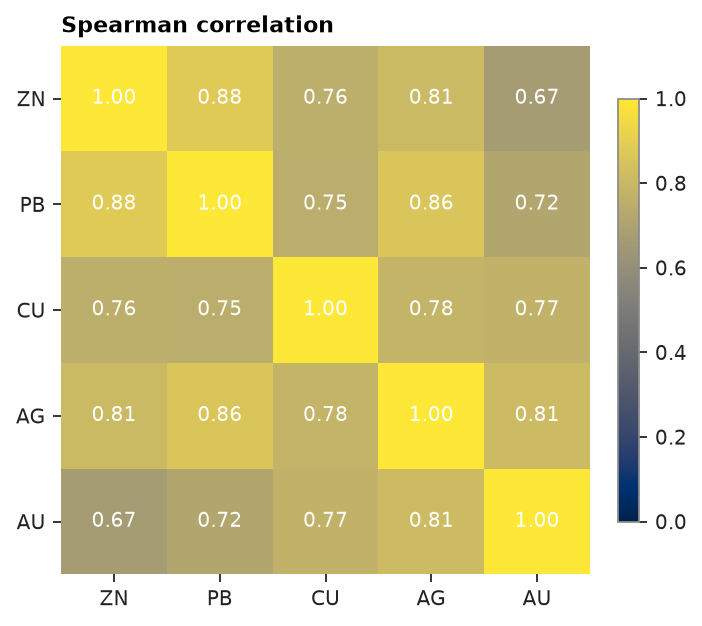
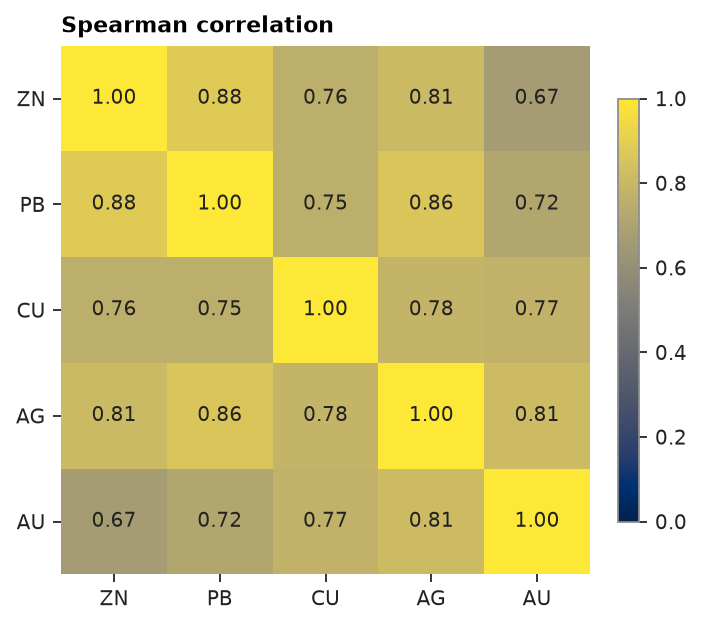
docs(examples): re-render chapter 16 with duplicates and scatter matrix

diff --git a/examples/16-eda/example_16.py b/examples/16-eda/example_16.py
@@ -59,12 +59,12 @@ print(f"{len(exact)} groups at exactly the same location, from {len(set(groups))
 
 # %% [markdown]
 # The groups inside one hole are short intervals on both sides of a contact, in different lithologies: they stay.
-# The exact duplicates are the top composites of pairs of holes collared at the same point and surveyed alike before
-# they part. Each pair is merged into one composite at its location, the length-weighted mean of the two; the `n`
-# column counts the composites behind each row.
+# The exact duplicates are the top composites of pairs of holes collared at the same point. One pair puts an MS
+# composite on one of unknown lithology (UNK), which a length-weighted `merge="mean"` would blend, so each pair keeps the composite
+# of its first hole instead; the `n` column counts the composites behind each row.
 
 # %%
-composites = cs.duplicates(composites, merge="mean", weights=composites["length"])
+composites = cs.duplicates(composites, merge="first")
 print(f"{len(composites)} composites, {int((composites['n'] > 1).sum())} of them merged pairs")
 xyz = composites.coords
 zn = composites["ZN"]
@@ -264,7 +264,7 @@ fig, ax = plt.subplots(figsize=(4.4, 3.8), layout="constrained")
 im = ax.imshow(r, vmin=0, vmax=1)
 for i in range(len(grades)):
     for j in range(len(grades)):
-        ax.text(j, i, f"{r[i, j]:.2f}", ha="center", va="center", color="white" if r[i, j] > 0.6 else INK)
+        ax.text(j, i, f"{r[i, j]:.2f}", ha="center", va="center", color=INK if r[i, j] > 0.4 else "white")
 ax.set_xticks(range(len(grades)), grades)
 ax.set_yticks(range(len(grades)), grades)
 ax.spines[:].set_visible(False)

diff --git a/examples/16-eda/README.md b/examples/16-eda/README.md
@@ -1,7 +1,7 @@
 # 16. Exploratory data analysis
 
-Statistics and distributions per domain, top cuts, grade-tonnage, contacts, swaths, h-scatterplots and correlations on the 2 m composites of the
-drillhole dataset. Every function skips missing values, so raw columns go in as they are.
+Duplicates, statistics and distributions per domain, top cuts, grade-tonnage, contacts, swaths, h-scatterplots and
+correlations on the 2 m composites of the drillhole dataset. Every function skips missing values, so raw columns go in as they are.
 
 <details><summary>Python</summary>
 
@@ -29,10 +29,6 @@ intervals = cs.merge_intervals(tables["assay"], tables["geology"])
 dh = cs.Drillholes(tables["collar"], tables["survey"], intervals)
 grades = ["ZN", "PB", "CU", "AG", "AU"]
 composites = dh.composite(2.0, grades, domain="LITH")
-xyz = composites.coords
-zn = composites["ZN"]
-lith = np.array(composites.attributes["LITH"])
-hole = np.array(composites.attributes["hole"])
 print(f"{len(composites)} composites")
 ```
 
@@ -40,6 +36,61 @@ print(f"{len(composites)} composites")
 
 ```text
 62506 composites
+```
+
+## Duplicates
+
+Twin holes, re-entries and collars entered twice put several composites at one place, and kriging cannot weight
+two samples at the same location. `duplicates` groups the composites closer than a tolerance, transitively, and
+reports each group with its first sample and its spread.
+
+<details><summary>Python</summary>
+
+```python
+hole = np.array(composites.attributes["hole"])
+
+
+def holes_per_group(tolerance):
+    report, group = cs.duplicates(composites, tolerance)
+    return report, [tuple(sorted(set(hole[group == k]))) for k in report["group"]]
+
+
+report, groups = holes_per_group(0.1)
+across = [h for h in groups if len(h) > 1]
+print(f"{len(report)} groups within 0.1 m, at most {report['spread'].max():.2f} m from their first composite")
+print(f"{len(across)} across {len(set(across))} sets of holes, {len(groups) - len(across)} inside one hole")
+exact, groups = holes_per_group(0.0)
+print(f"{len(exact)} groups at exactly the same location, from {len(set(groups))} pairs of holes")
+```
+
+</details>
+
+```text
+160 groups within 0.1 m, at most 0.10 m from their first composite
+147 across 27 sets of holes, 13 inside one hole
+43 groups at exactly the same location, from 9 pairs of holes
+```
+
+The groups inside one hole are short intervals on both sides of a contact, in different lithologies: they stay.
+The exact duplicates are the top composites of pairs of holes collared at the same point. One pair puts an MS
+composite on one of unknown lithology (UNK), which a length-weighted `merge="mean"` would blend, so each pair keeps the composite
+of its first hole instead; the `n` column counts the composites behind each row.
+
+<details><summary>Python</summary>
+
+```python
+composites = cs.duplicates(composites, merge="first")
+print(f"{len(composites)} composites, {int((composites['n'] > 1).sum())} of them merged pairs")
+xyz = composites.coords
+zn = composites["ZN"]
+lith = np.array(composites.attributes["LITH"])
+hole = np.array(composites.attributes["hole"])
+```
+
+</details>
+
+```text
+62463 composites, 43 of them merged pairs
 ```
 
 ## Declustered statistics
@@ -285,7 +336,7 @@ log_zn = np.log10(np.where(zn > 0, zn, np.nan))
 fig, axes = plt.subplots(1, 3, figsize=(10, 3.4), layout="constrained", sharey=True)
 for ax, lag in zip(axes, [2.0, 10.0, 50.0], strict=True):
     head, tail, r = cs.h_scatter(xyz, log_zn, lag, 0.1 * lag)
-    ax.hexbin(tail, head, gridsize=40, bins="log", cmap="cividis", linewidths=0)
+    ax.hexbin(tail, head, gridsize=40, bins="log", linewidths=0)
     ax.set(title=f"h = {lag:g} m, ρ = {r:.2f}", xlabel="log₁₀ Zn at x", aspect="equal")
 axes[0].set_ylabel("log₁₀ Zn at x + h")
 save(fig, "h_scatter")
@@ -295,19 +346,38 @@ save(fig, "h_scatter")
 
 ![h_scatter](h_scatter.png)
 
-## Correlation matrix
+## Correlations
 
-Spearman correlation of the grades, each pair over the composites where both are assayed.
+The scatter-plot matrix of the MS grades on log axes, with declustered histograms on the diagonal and, in each
+panel, the declustered Pearson (r) and rank correlation of the pair. Pearson's r, on the raw grades, falls well
+below the rank correlation wherever a few high values dominate a pair; on skewed grades the rank correlation is the
+one to read. Zn, Pb and Ag move together most closely. The rows of points at Ag 1 g/t and Au 0.01 g/t are
+detection limits.
+
+<details><summary>Python</summary>
+
+```python
+ms = lith == "MS"
+fig, axes = cs.plot.scatter_matrix({g: composites[g][ms] for g in grades}, weights=weights[ms], log=True)
+fig.suptitle("MS grades, declustered", x=0.02, ha="left", fontweight="bold", fontsize=10)
+save(fig, "scatter_matrix")
+```
+
+</details>
+
+![scatter_matrix](scatter_matrix.png)
+
+Spearman correlation of the grades over all composites, each pair over the composites where both are assayed.
 
 <details><summary>Python</summary>
 
 ```python
 r = cs.correlation(np.column_stack([composites[g] for g in grades]), method="spearman")
 fig, ax = plt.subplots(figsize=(4.4, 3.8), layout="constrained")
-im = ax.imshow(r, cmap="cividis", vmin=0, vmax=1)
+im = ax.imshow(r, vmin=0, vmax=1)
 for i in range(len(grades)):
     for j in range(len(grades)):
-        ax.text(j, i, f"{r[i, j]:.2f}", ha="center", va="center", color="white" if r[i, j] > 0.6 else INK)
+        ax.text(j, i, f"{r[i, j]:.2f}", ha="center", va="center", color=INK if r[i, j] > 0.4 else "white")
 ax.set_xticks(range(len(grades)), grades)
 ax.set_yticks(range(len(grades)), grades)
 ax.spines[:].set_visible(False)
